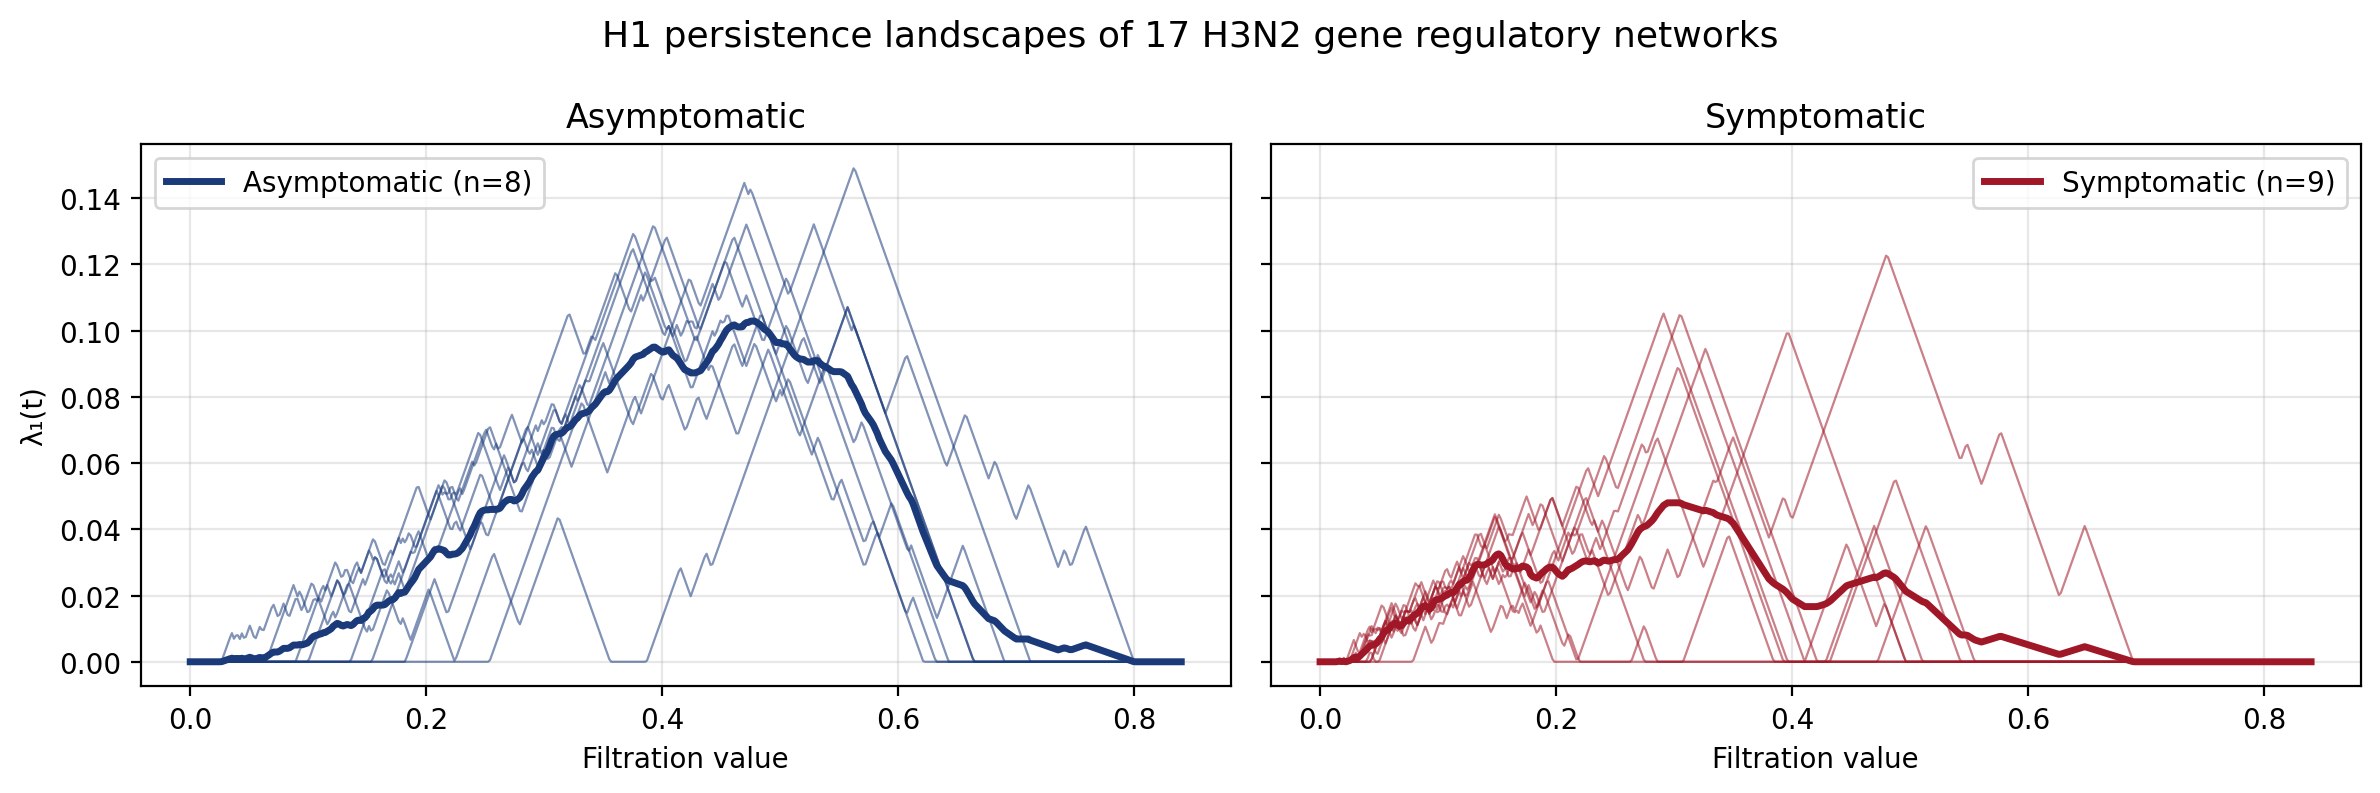
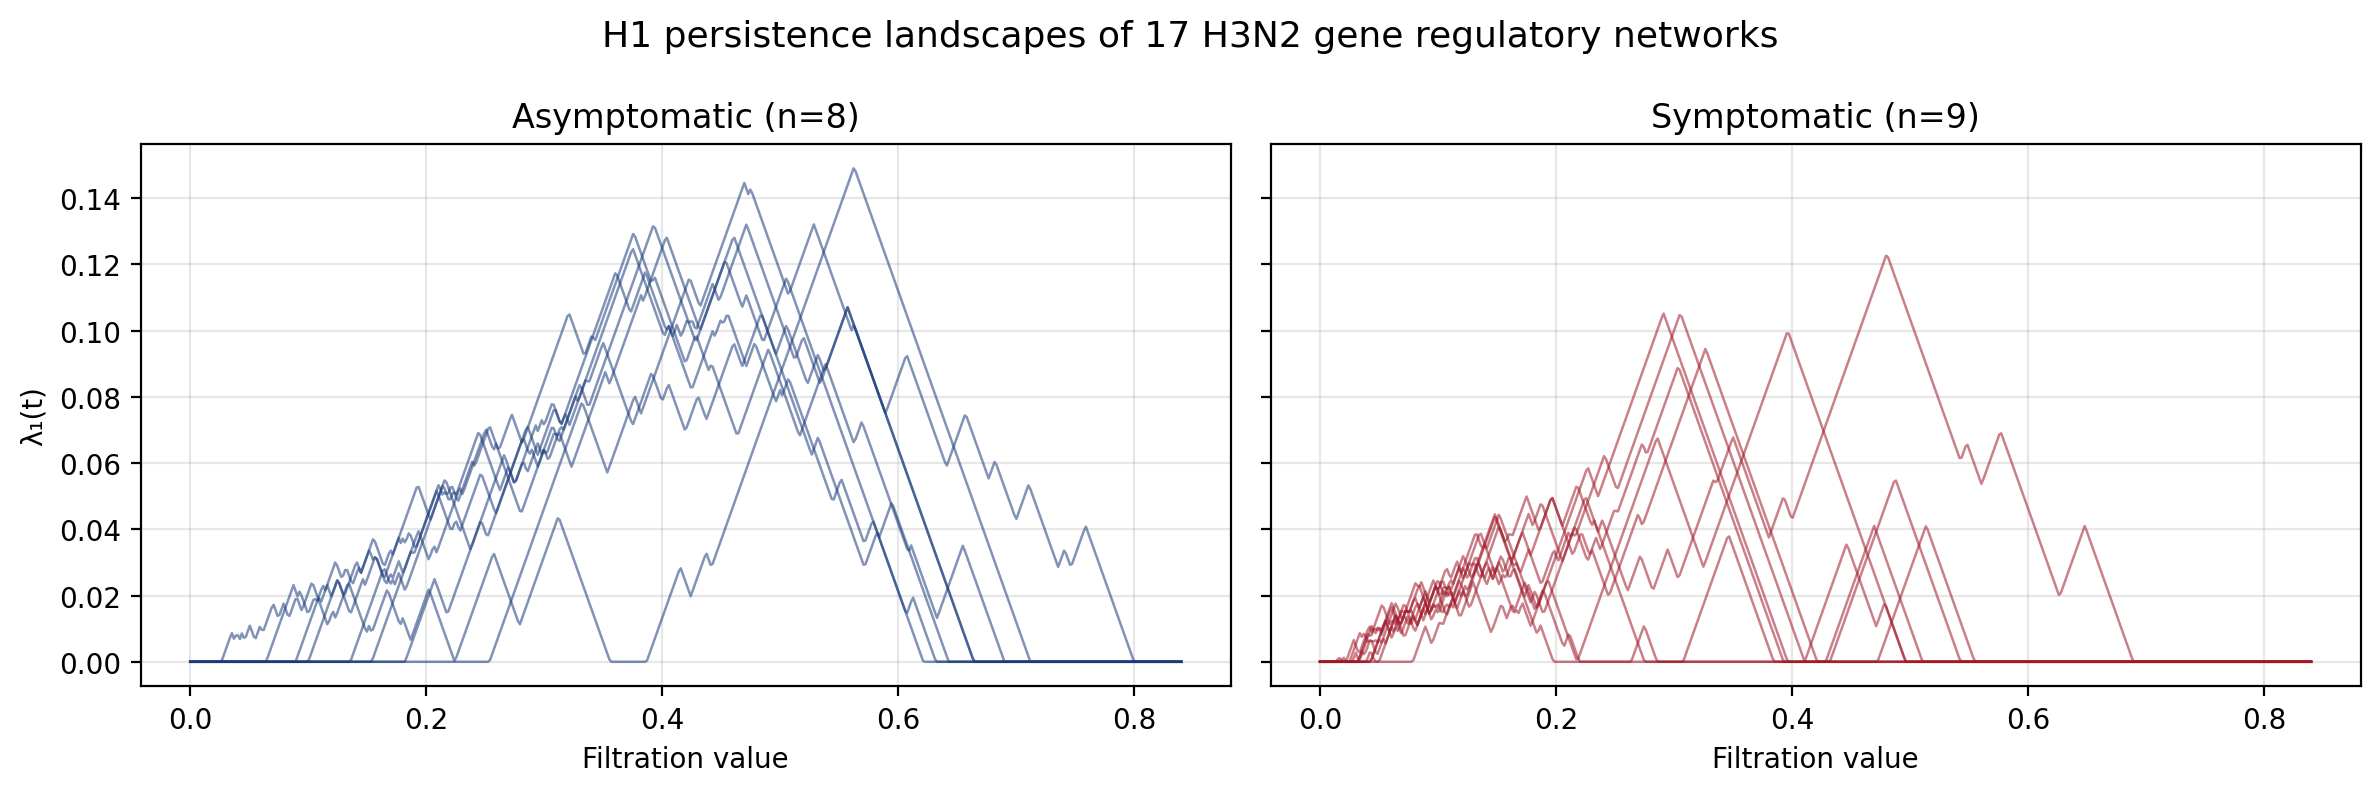
Remove mean line from grn_17_subjects figure, show individual landscapes only

diff --git a/make_figs.py b/make_figs.py
@@ -41,26 +41,19 @@ tseq   = np.linspace(0, t_max, 500)
 asymp_ls = [landscape_k1(h1, tseq) for h1 in asymp_h1]
 symp_ls  = [landscape_k1(h1, tseq) for h1 in symp_h1]
 
-mean_asymp = np.mean(asymp_ls, axis=0)
-mean_symp  = np.mean(symp_ls,  axis=0)
-
 fig, axes = plt.subplots(1, 2, figsize=(12, 4), sharey=True)
 
 for ls in asymp_ls:
-    axes[0].plot(tseq, ls, color='#1A3A7A', alpha=0.55, linewidth=0.8)
-axes[0].plot(tseq, mean_asymp, color='#1A3A7A', linewidth=2.5, label='Asymptomatic (n=8)')
-axes[0].set_title('Asymptomatic')
+    axes[0].plot(tseq, ls, color='#1A3A7A', alpha=0.55, linewidth=0.9)
+axes[0].set_title(f'Asymptomatic (n={len(asymp_ls)})')
 axes[0].set_xlabel('Filtration value')
 axes[0].set_ylabel('λ₁(t)')
-axes[0].legend(fontsize=10)
 axes[0].grid(True, alpha=0.3)
 
 for ls in symp_ls:
-    axes[1].plot(tseq, ls, color='#A01828', alpha=0.55, linewidth=0.8)
-axes[1].plot(tseq, mean_symp, color='#A01828', linewidth=2.5, label='Symptomatic (n=9)')
-axes[1].set_title('Symptomatic')
+    axes[1].plot(tseq, ls, color='#A01828', alpha=0.55, linewidth=0.9)
+axes[1].set_title(f'Symptomatic (n={len(symp_ls)})')
 axes[1].set_xlabel('Filtration value')
-axes[1].legend(fontsize=10)
 axes[1].grid(True, alpha=0.3)
 
 fig.suptitle('H1 persistence landscapes of 17 H3N2 gene regulatory networks', fontsize=13)